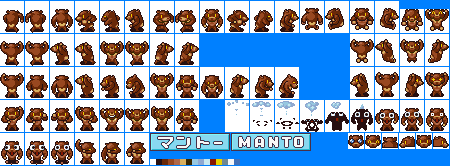
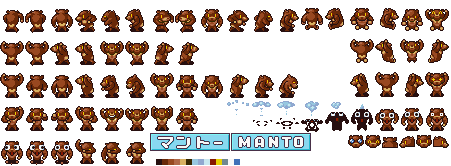
feat(playerMovement) :finished player movement

Changed region(s): [[0.0, 0.0, 1.0, 1.0]]

diff --git a/src/script.js b/src/script.js
@@ -7,8 +7,16 @@ const LEFT = CELL_SIZE + 10;
 const SPRITES = {
     player1: "../images/player-1.png",
     player2: "../images/player-2.png",
-    enemy1: "../images/Enemie1.png",
+    enemy1: "../images/enemy-1.png",
+    enemy2: "../images/enemy-2.png",
+    enemy3: "../images/enemy-3.png",
 };
+const STARTER_FRAME = {
+    up: 2,
+    left: 5,
+    down: 8,
+    right: 11,
+}
 let FRAME_WIDTH, FRAME_HEIGHT, SPRITE_SHEET_WIDTH, SPRITE_SHEET_HEIGHT, offsetX, offsetY;
 let playerDiv;
 
@@ -29,6 +37,7 @@ const grid = [
 // Helper to auto-calculate frame size
 function getSpriteFrameSize(imageUrl, columns, rows, callback) {
     const img = new Image();
+    
     img.onload = function () {
         FRAME_WIDTH = Math.floor(img.width / columns);
         FRAME_HEIGHT = Math.floor(img.height / rows);
@@ -37,6 +46,7 @@ function getSpriteFrameSize(imageUrl, columns, rows, callback) {
         callback();
     };
     img.src = imageUrl;
+
 }
 
 function drawGrid(grid, frameRow = 0, frameCol = 8) {
@@ -115,9 +125,9 @@ const newGrid = transformGrid(grid);
 let playerPosition = { x: 1 * LEFT, y: 1 * TOP };
 function canMovePlayer(newX, newY) {
     // Convert pixel coordinates to grid indices
-    const gridX = Math.ceil((newX / LEFT));
-    const gridY = Math.ceil((newY / TOP));
-    
+    const gridX = Math.ceil((newX / 40));
+    const gridY = Math.ceil((newY / 40));
+
     switch (grid[gridY][gridX]) {
         case "W":
         case "BW":
@@ -129,63 +139,76 @@ function canMovePlayer(newX, newY) {
     }
 }
 
-function MovePlayer(direction ,moves = 2 , nextFrame = 0) {
-    let frameCol = 0 ;
-    let frameRow = 0;
-    if (moves === 0){
-        playerDiv.style.left = `${playerPosition.x}px`;
-        playerDiv.style.top = `${playerPosition.y}px`;
-        return;
-    }
-    switch (direction) {
-        case "up":
-            frameRow = 0;
-            frameCol = 0 + nextFrame;
-            break;
-        case "down":
-            frameRow = 0;
-            frameCol = 8 + nextFrame;
-            break;
-        case "left":
-            frameRow = 0;
-            frameCol = 4 + nextFrame;
-            break;
-        case "right":
-            frameRow = 0;
-            frameCol = 10 + nextFrame;
-            break;
-    }
-    const offsetX = -frameCol * FRAME_WIDTH;
-    const offsetY = -frameRow * FRAME_HEIGHT;
-    playerDiv.style.backgroundPosition = `${offsetX}px ${offsetY}px`;
+
+let playerIsMoving = false;
+let isAnimating = false;
+let lastFrameTime = performance.now();
+
+function MovePlayer(moves = 2, nextFrame = 0) {
     
-    setTimeout(() => {
-        MovePlayer(direction, moves - 1, nextFrame + 1);
-    }, 100);
+    if (isAnimating) return; // prevent race condition for lastFrameTime variable
+    isAnimating = true;
+
+    
+    let now = performance.now();
+    let delta = now - lastFrameTime;
+    
+    if (delta >= 100) {
+        let frameCol = nextFrame ;
+        let frameRow = 0;
+
+        offsetX = -frameCol * FRAME_WIDTH;
+        offsetY = -frameRow * FRAME_HEIGHT;
+
+        playerDiv.style.backgroundPosition = `${offsetX}px ${offsetY}px`;
+
+        lastFrameTime = now;
+        nextFrame -= 1;
+        if (moves === 0) {
+            playerDiv.style.left = `${playerPosition.x}px`;
+            playerDiv.style.top = `${playerPosition.y}px`;
+            isAnimating = false;
+            return;
+        }
+        moves -= 1;
+    }
+
+    requestAnimationFrame(() => {
+        isAnimating = false;
+        MovePlayer(moves, nextFrame);
+    });
 }
 
+
+
 function handleKeyDown(event) {
+    
     const key = event.key;
     let newX = playerPosition.x;
     let newY = playerPosition.y;
+    let nextFrame = -1;
     let direction = null;
 
     switch (key) {
         case "ArrowUp":
             newY = playerPosition.y - 10;
             direction = "up";
+            nextFrame = STARTER_FRAME.up;
             break;
         case "ArrowDown":
             newY = playerPosition.y + 10;
             direction = "down";
+            nextFrame = STARTER_FRAME.down;
             break;
         case "ArrowLeft":
             newX = playerPosition.x - 10;
             direction = "left";
+            nextFrame = STARTER_FRAME.left;
             break;
         case "ArrowRight":
             newX = playerPosition.x + 10;
             direction = "right";
+            nextFrame = STARTER_FRAME.right;
             break;
         default:
             return;
@@ -194,12 +217,8 @@ function handleKeyDown(event) {
     if (canMovePlayer(newX, newY)) {
         playerPosition.x = newX;
         playerPosition.y = newY;
-        console.log(`Player moved to: (${playerPosition.x}, ${playerPosition.y})`);
-        
     }
-    MovePlayer(direction, 2, 0);
-
-    // console.log(`Player moved to: (${playerPosition.x}, ${playerPosition.y})`);
+    MovePlayer(2, nextFrame);
 }
 
 document.addEventListener("keydown", handleKeyDown);
@@ -208,6 +227,3 @@ document.addEventListener("keydown", handleKeyDown);
 getSpriteFrameSize(SPRITES.player1, SPRITE_COLUMNS, SPRITE_ROWS, () => {
     drawGrid(newGrid);
 });
-
-
-

diff --git a/src/index.html b/src/index.html
@@ -5,11 +5,10 @@
     <meta charset="UTF-8">
     <meta name="viewport" content="width=device-width, initial-scale=1.0">
     <link rel="stylesheet" href="style.css">
-    <title>Document</title>
+    <title>Bomberman</title>
 </head>
 
 <body>
-    <!-- <img id="logo" src="image.jpg" /> -->
     <div class="hud-container">
         <img class="hud-image" src="../images/HUD-Elements.png" />
     </div>
